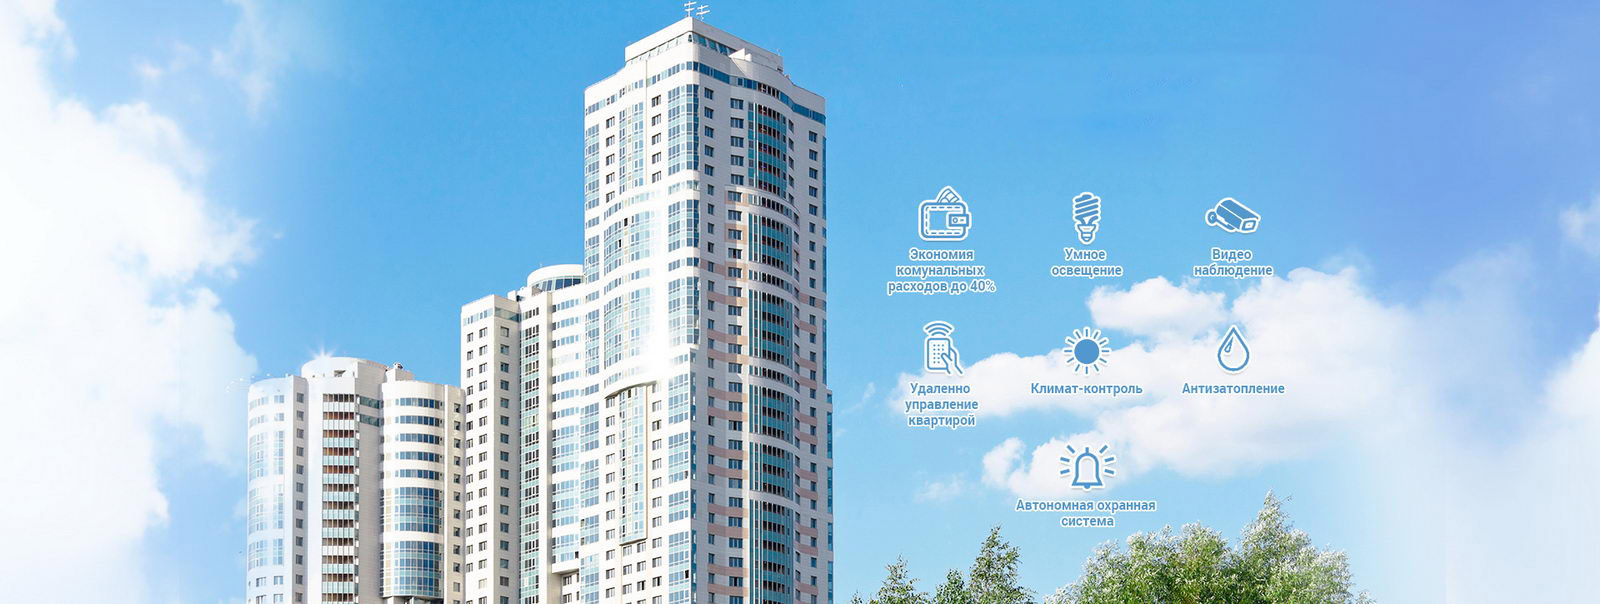
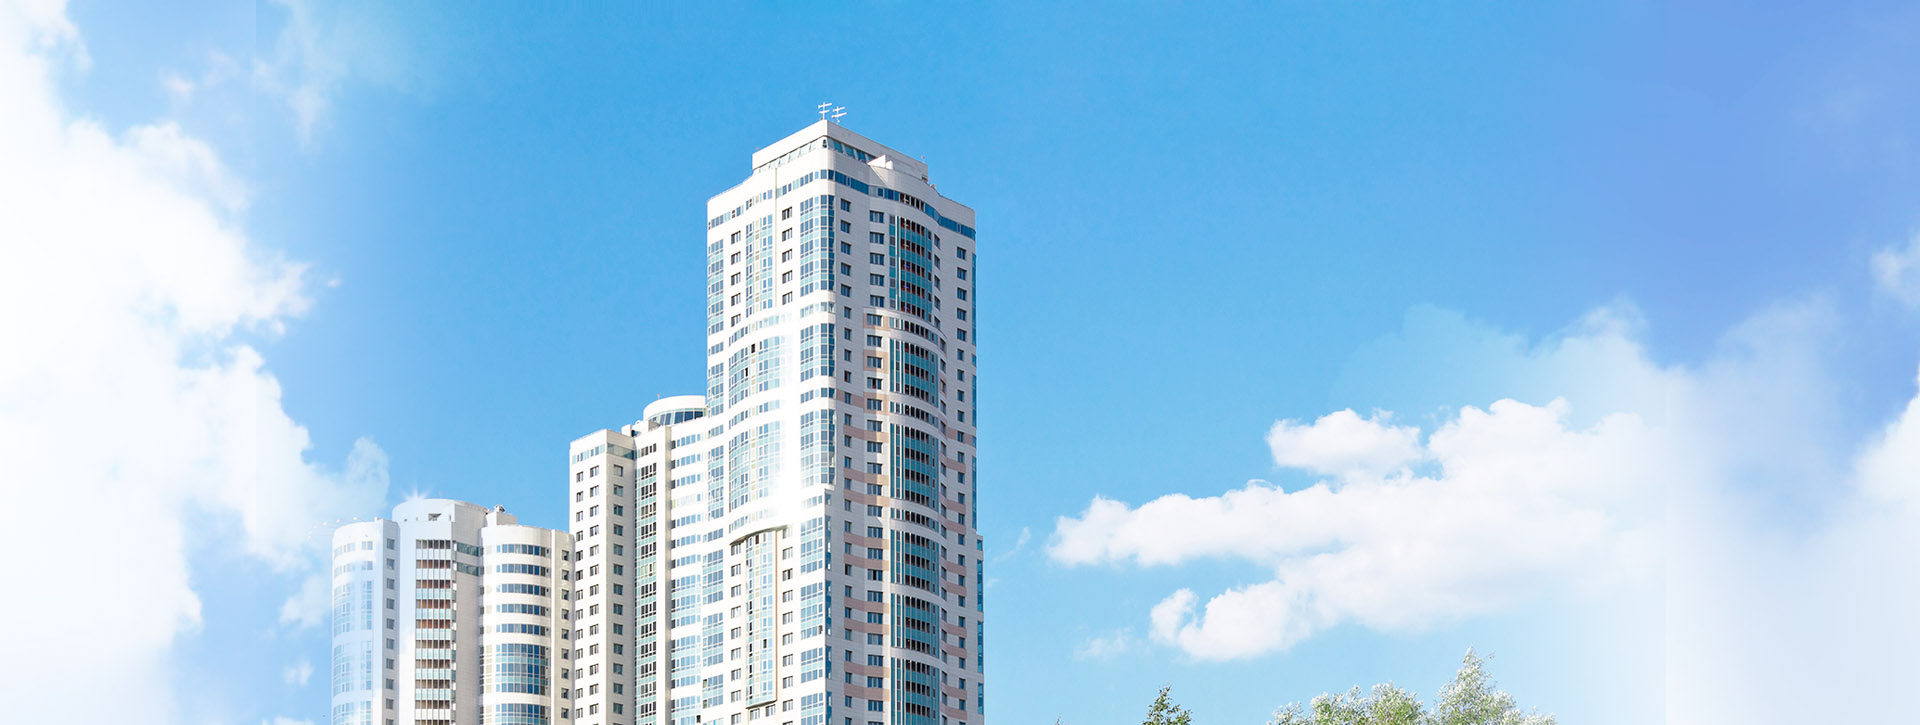
v. 0.9

Changed region(s): [[0.125, 0.0, 0.9062, 1.0]]

diff --git a/css/styles.css b/css/styles.css
@@ -54,7 +54,7 @@ input:focus:-ms-input-placeholder, textarea:focus:-ms-input-placeholder {color: 
     width: 40%;
     top: 13%;
     left: auto;
-    right: 0;
+    right: 2%;
     padding: 0;
 }
 .slide:nth-child(3) .line {
@@ -74,6 +74,34 @@ input:focus:-ms-input-placeholder, textarea:focus:-ms-input-placeholder {color: 
     display: inline-block;
     font-family: "Roboto Regular", sans-serif;
     font-size: 0.7em;
+}
+.slide-icons {
+    display: inline-block;
+    width: 100%;
+}
+.slide-icons li {
+    display: inline-block;
+    width: 20%;
+    vertical-align: top;
+    margin: 0 1%;
+}
+.slide-icons .icon {
+    width: 50%;
+    padding-top: 50%;
+    margin: 5% 25%;
+}
+.slide-icons li:nth-child(1) .icon {background: url('../images/icons-sprite-3.png') no-repeat -1% center;background-size: cover;}
+.slide-icons li:nth-child(2) .icon {background: url('../images/icons-sprite-3.png') no-repeat 15% center;background-size: cover;}
+.slide-icons li:nth-child(3) .icon {background: url('../images/icons-sprite-3.png') no-repeat 32% center;background-size: cover;}
+.slide-icons li:nth-child(4) .icon {background: url('../images/icons-sprite-3.png') no-repeat 50% center;background-size: cover;}
+.slide-icons li:nth-child(5) .icon {background: url('../images/icons-sprite-3.png') no-repeat 66.5% center;background-size: cover;}
+.slide-icons li:nth-child(6) .icon {background: url('../images/icons-sprite-3.png') no-repeat 83% center;background-size: cover;}
+.slide-icons li:nth-child(7) .icon {background: url('../images/icons-sprite-3.png') no-repeat 100% center;background-size: cover;}
+.slide-icons .text-4 {
+    color: #4d8db5;
+    font-family: "Roboto Bold", sans-serif;
+    text-shadow: 2px 2px 3px rgba(255, 255, 255, 0.7), -2px -2px 3px rgba(255, 255, 255, 0.7);
+    text-transform: none;
 }
 .slide:nth-child(1){display: block;background:url("../images/slide-1.jpg");background-size: cover}
 .slide:nth-child(2){background:url("../images/slide-2.jpg");background-size: cover}
@@ -219,10 +247,10 @@ nav {
     cursor: pointer;
 }
 .control:hover {
-    border: 0.6em solid black;
+    border: 0.6em solid yellow;
 }
 .header-slider-controls .active {
-    border: 0.6em solid black;
+    border: 0.6em solid yellow;
 }
 .partners, .partners-2 {
     width: 100%;

diff --git a/index.html b/index.html
@@ -101,6 +101,36 @@
                 <div class="text-2">умный дом</div>
                 <div class="line"></div>
                 <div class="text-3">каждая квартира подключена к умному дому</div>
+                <ul class="slide-icons">
+                    <li>
+                        <div class="icon"></div>
+                        <div class="text-4">Экономия коммунальных расходов до 40%</div>
+                    </li>
+                    <li>
+                        <div class="icon"></div>
+                        <div class="text-4">Умное освещение</div>
+                    </li>
+                    <li>
+                        <div class="icon"></div>
+                        <div class="text-4">Видео наблюдение</div>
+                    </li>
+                    <li>
+                        <div class="icon"></div>
+                        <div class="text-4">Удаленное управление квартирой</div>
+                    </li>
+                    <li>
+                        <div class="icon"></div>
+                        <div class="text-4">Климат-контроль</div>
+                    </li>
+                    <li>
+                        <div class="icon"></div>
+                        <div class="text-4">Антизатопление</div>
+                    </li>
+                    <li>
+                        <div class="icon"></div>
+                        <div class="text-4">Автономная охранная система</div>
+                    </li>
+                </ul>
             </div>
         </li>
         <li class="slide"><div class="text-1">Надежное место для хранения данных.<br>Аренда шкафов, физическое размешение серверов.</div></li>
